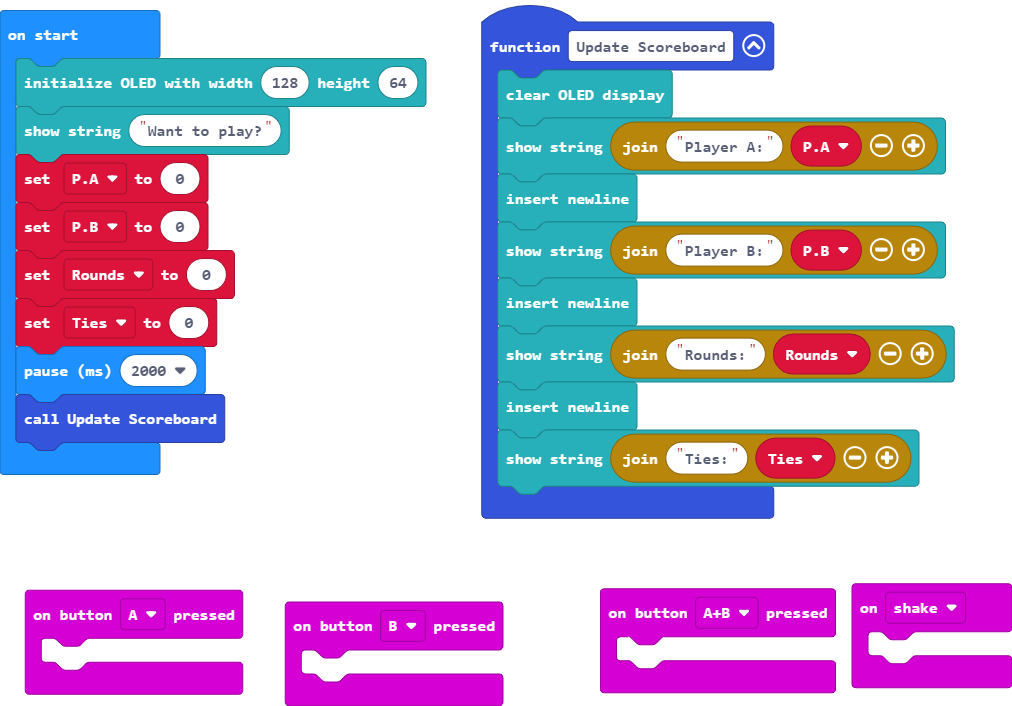
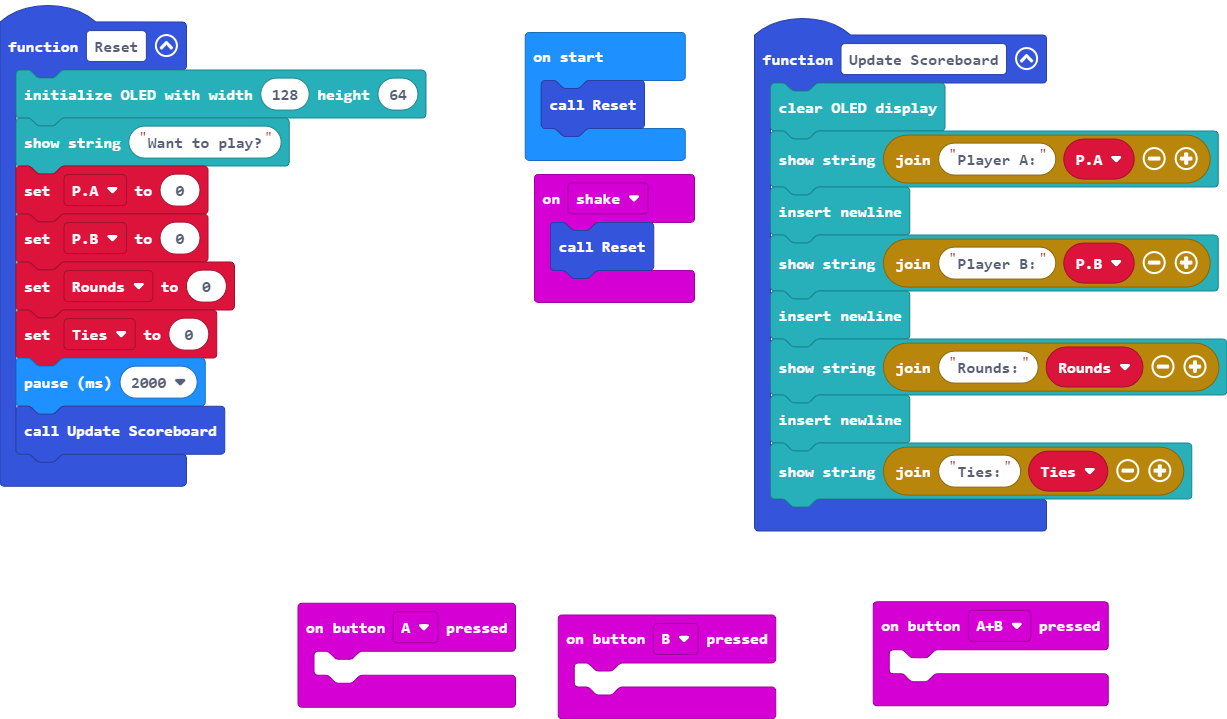
Update main.blocks, main.ts

diff --git a/main.ts b/main.ts
@@ -18,17 +18,20 @@ input.onButtonPressed(Button.B, function () {
 	
 })
 input.onGesture(Gesture.Shake, function () {
-	
+    Reset()
 })
+function Reset () {
+    OLED.init(128, 64)
+    OLED.writeStringNewLine("Want to play?")
+    PA = 0
+    PB = 0
+    Rounds = 0
+    Ties = 0
+    basic.pause(2000)
+    Update_Scoreboard()
+}
 let Ties = 0
 let Rounds = 0
 let PB = 0
 let PA = 0
-OLED.init(128, 64)
-OLED.writeStringNewLine("Want to play?")
-PA = 0
-PB = 0
-Rounds = 0
-Ties = 0
-basic.pause(2000)
-Update_Scoreboard()
+Reset()
